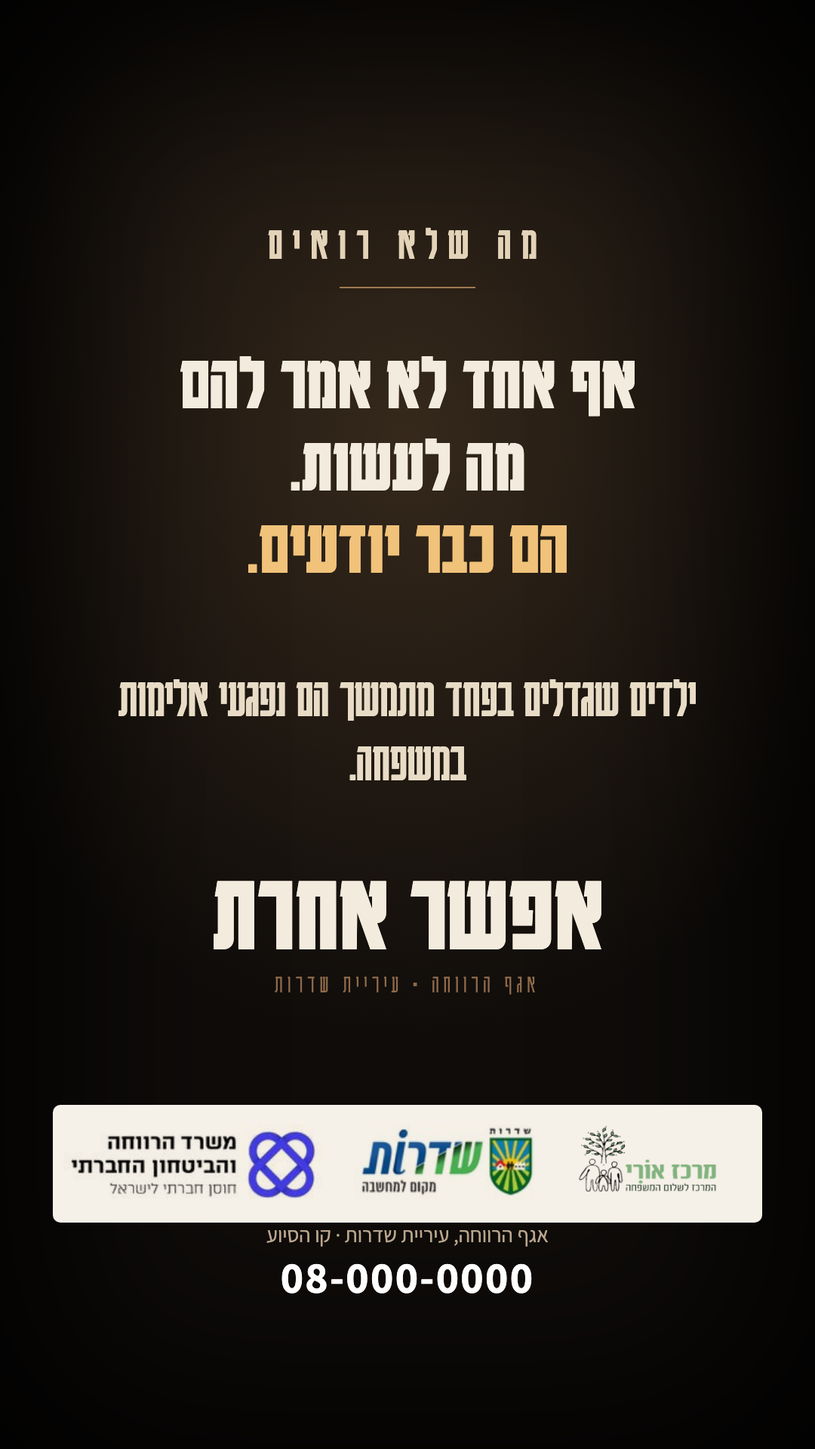
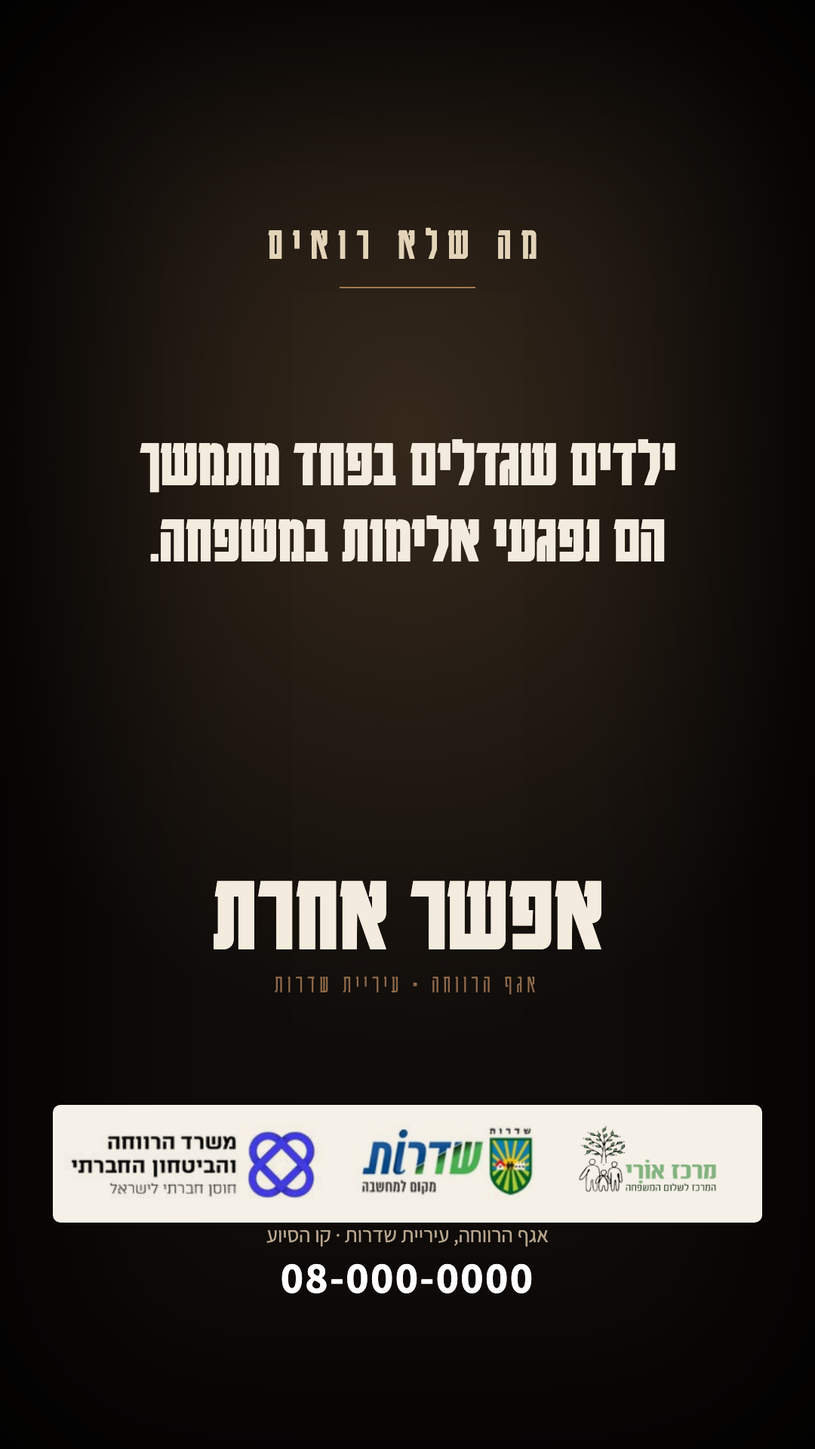
כרטיס 01 בלי משפט רגשי

Changed region(s): [[0.1833, 0.25, 0.825, 0.4062], [0.1222, 0.4688, 0.8556, 0.5625]]

diff --git a/film-01.html b/film-01.html
@@ -65,7 +65,7 @@ footer{padding-block:22px;border-top:1px solid var(--line)} footer .inner{displa
 <div class="band hero"><div class="inner"><span class="kicker">סרטון 01 · פחד מתמשך בבית</span><h1>הם כבר יודעים</h1><p class="sub">ההורים רבים במטבח. בלי מילים שאפשר להבין, בלי מכה. הילדה שומעת את הטון, לוקחת את אחיה הקטן לחדר, סוגרת את הדלת בשקט ושמה לו אוזניות. אף אחד לא אמר לה מה לעשות. היא כבר יודעת.</p><div class="meta"><span>35 שניות</span><span>דרמה שקטה</span><span>דירת משפחה ישראלית, ערב: סלון, מטבח פתוח, מסדרון קצר וחדר הילדים</span></div></div></div>
 <section class="band"><div class="inner"><div class="sec-head"><span class="eyebrow">הדמויות</span><h2>מי בסרטון</h2><p>כל דמות מוצגת בשלוש זוויות: פנים, שלושה-רבעים וגוף מלא, בלבוש של הסרטון. ככה היא תיראה בכל השוטים.</p></div><div class="cast"><div class="who"><img src="c/C1-A7.jpg" alt=""><b>האם</b><small>בת 29, דתייה-לאומית ליברלית. מטפחת-סרט ורודה מנומרת, שיער ארוך וחלק בחוץ, חולצת קרושה קרם, חצאית זית, נזם ועגילים. עור צעיר, בלי עייפות. בלי צלקת בגבה.</small></div><div class="who"><img src="c/C1-B5.jpg" alt=""><b>האב</b><small>בן 42, דתי-לאומי בסגנון קיבוצי. כיפה סרוגה לבנה-כחולה גדולה יותר, זקן מלא, טי-שירט זית עם כיס, ציצית, ג'ינס וסנדלים. בלי צלקת בגבה.</small></div><div class="who"><img src="c/C1-C8.jpg" alt=""><b>הילדה</b><small>בת 8, דומה לאם (עיניים, עור, קו גבות) ולאב (אף, צורת פנים). שיער ארוך חלק בקוקו, חולצת לילך, חצאית, גרביים לבנות.</small></div><div class="who"><img src="c/C1-D8.jpg" alt=""><b>הילד</b><small>בן 5, תלתלים כמו של האב, עיניים כמו של האם. כיפה סרוגה לבנה קטנה, טי-שירט חרדל, מכנסי טרנינג אפורים, יחף.</small></div></div></div></section>
 <section class="band tint"><div class="inner"><div class="sec-head"><span class="eyebrow">הלוקיישנים</span><h2>איפה זה קורה</h2></div><div class="locs"><div class="who"><img src="c/L1.jpg" alt=""><b>הדירה</b><small>מטבח פתוח לסלון, שולחן אוכל, ציור על המקרר, צעצוע על השטיח, ודלת הכניסה בעומק. אור ערב חם, אור קר יותר מחדר המדרגות. כולל חדר ילדים: מיטה, מנורת לילה, אוזניות גדולות וטאבלט ישן.</small></div></div></div></section>
-<section class="band"><div class="inner"><div class="sec-head"><span class="eyebrow">הקריאטיב</span><h2>התסריט שנייה-שנייה</h2><p>לכל שוט: מה רואים, מה שומעים, איך המצלמה מצלמת, מה האור והקומפוזיציה, ומה הצופה אמור להבין ברגע הזה.</p></div><div class="tl"><div class="shot"><div class="time"><span class="n">1</span><b>0–3</b><small>3 שניות</small></div><div><h3>שגרה</h3><div class="f"><div class="w"><span>רואים</span>הסלון בערב. הילדה והילד על השטיח עם פאזל. בעומק, דרך פתח המטבח, ההורים מפנים את השולחן. רגיל, חם, נעים.</div><div><span>שומעים</span>חלקי פאזל, כלים בכיור, טלוויזיה רחוקה.</div><div><span>מצלמה</span>רחב · גובה עיני ילד · 35mm · נעולה</div><div><span>אור וקומפוזיציה</span>ערב. מנורת סלון חמה, המטבח מואר צהוב יותר ברקע.</div><div><span>רגש / גילוי</span>נורמליות. הצופה עוד לא יודע כלום.</div><div><span>המשכיות</span>הפאזל חצי בנוי, קופסת הפאזל ליד הילדה.</div></div></div></div><div class="shot"><div class="time"><span class="n">2</span><b>3–6</b><small>3 שניות</small></div><div><h3>הטון משתנה</h3><div class="f"><div class="w"><span>רואים</span>המטבח ברקע, מטושטש: האב מניח סיר על השיש בחוזקה. האם מסתובבת אליו, ידיים משולבות. רואים גופים ותנועות ידיים, לא פנים ולא פיות. הריב מתחיל.</div><div><span>שומעים</span>סיר על שיש. קולות נמוכים ועמומים, בלי מילים שאפשר להבין.</div><div><span>מצלמה</span>מדיום · גובה עיני ילד · 50mm · ההורים מחוץ לפוקוס · נעולה</div><div><span>אור וקומפוזיציה</span>אותו אור. הפוקוס נשאר על השטיח בקדמת הפריים.</div><div><span>רגש / גילוי</span>משהו לא בסדר, עוד לא ברור מה.</div><div><span>המשכיות</span>הילדים עדיין על השטיח, הפאזל במקומו.</div></div></div></div><div class="shot"><div class="time"><span class="n">3</span><b>6–9</b><small>3 שניות</small></div><div><h3>הילדה שומעת</h3><div class="f"><div class="w"><span>רואים</span>פני הילדה. חלק הפאזל נעצר באוויר. העיניים עולות לכיוון המטבח. האח ממשיך לדחוף חלקים, לא שם לב.</div><div><span>שומעים</span>הקולות ברקע עולים, עדיין עמומים. חלק פאזל ביד.</div><div><span>מצלמה</span>קלוז-אפ · גובה עיניים · 85mm · נעולה</div><div><span>אור וקומפוזיציה</span>אור חם מהצד, חצי פנים בצל.</div><div><span>רגש / גילוי</span>היא מזהה את הטון. היא מכירה אותו.</div><div><span>המשכיות</span>חלק הפאזל נשאר בידה.</div></div></div></div><div class="shot"><div class="time"><span class="n">4</span><b>9–13</b><small>4 שניות</small></div><div><h3>הטקס</h3><div class="f"><div class="w"><span>רואים</span>הילדה מניחה את החלק, לוקחת את היד של אחיה. הוא מביט בה, מתנגד שנייה, מביט למטבח, ומבין. היא מרימה את קופסת הפאזל. אף מילה.</div><div><span>שומעים</span>חלקים נכנסים לקופסה. הריב ברקע, עמום.</div><div><span>מצלמה</span>מדיום טו-שוט · גובה עיני ילד · 50mm · נעולה</div><div><span>אור וקומפוזיציה</span>אותו אור סלון.</div><div><span>רגש / גילוי</span>זה לא הפעם הראשונה. יש להם סדר פעולות.</div><div><span>המשכיות</span>הקופסה בידה, היד של האח בידה השנייה.</div></div></div></div><div class="shot"><div class="time"><span class="n">5</span><b>13–17</b><small>4 שניות</small></div><div><h3>המסדרון</h3><div class="f"><div class="w"><span>רואים</span>שני הילדים הולכים במסדרון הקצר, היד שלה על הגב שלו. מאחוריהם, מטושטש, יד של האב מונפת בתנועת ויכוח והאם צועדת צעד אחורה. המצלמה הולכת איתם.</div><div><span>שומעים</span>הקולות מאחור, כיסא נגרר, צעדים קטנים על רצפה.</div><div><span>מצלמה</span>רחב נמוך · גובה עיני ילד · 35mm · מאחורי הילדים · ליווי איטי</div><div><span>אור וקומפוזיציה</span>המסדרון חשוך יותר, אור חם מחדר הילדים בקצה.</div><div><span>רגש / גילוי</span>הם מתרחקים מהמקום שבו רע.</div><div><span>המשכיות</span>הקופסה בידה. דלת חדר הילדים פתוחה בקצה.</div></div></div></div><div class="shot"><div class="time"><span class="n">6</span><b>17–21</b><small>4 שניות</small></div><div><h3>הדלת</h3><div class="f"><div class="w"><span>רואים</span>הילדה סוגרת את דלת החדר לאט, בשתי ידיים, כדי שלא תשמיע צליל. היא יודעת איך. הקולות מהמטבח יורדים כשהדלת נסגרת.</div><div><span>שומעים</span>הקולות נחתכים לעמום. נקישה רכה יותר מנקישה.</div><div><span>מצלמה</span>קלוז-אפ · גובה עיני ילד · 50mm · נעולה</div><div><span>אור וקומפוזיציה</span>מנורת לילה חמה בחדר.</div><div><span>רגש / גילוי</span>סגירת דלת בשקט היא מיומנות. ילדה בת 8 לא אמורה לדעת אותה.</div><div><span>המשכיות</span>הדלת סגורה. האח כבר יושב על המיטה.</div></div></div></div><div class="shot"><div class="time"><span class="n">7</span><b>21–25</b><small>4 שניות</small></div><div><h3>האוזניות</h3><div class="f"><div class="w"><span>רואים</span>היא מושיבה אותו על המיטה, שמה לו את האוזניות הגדולות על האוזניים ולוחצת פליי בטאבלט הישן. נותנת לו את קופסת הפאזל. מחייכת אליו חיוך מתורגל.</div><div><span>שומעים</span>מוזיקה דקה ופחית מהאוזניות. הקולות דרך הדלת.</div><div><span>מצלמה</span>מדיום · גובה עיניים · 50mm · נעולה</div><div><span>אור וקומפוזיציה</span>מנורת לילה, אור המסך של הטאבלט על פניו.</div><div><span>רגש / גילוי</span>היא מגוננת עליו כמו אמא. היא בת 8.</div><div><span>המשכיות</span>האוזניות עליו, הקופסה על ברכיו.</div></div></div></div><div class="shot"><div class="time"><span class="n">8</span><b>25–29</b><small>4 שניות</small></div><div><h3>היא שומרת</h3><div class="f"><div class="w"><span>רואים</span>הילדה יושבת על הרצפה עם הגב לדלת, ברכיים לחזה, מביטה באח. הקולות דרך הדלת עולים ויורדים. ארון נטרק במטבח. היד שלה לא זזה.</div><div><span>שומעים</span>הריב דרך הדלת, עמום. טריקת ארון.</div><div><span>מצלמה</span>מדיום רחב · גובה רצפה · 35mm · נעולה</div><div><span>אור וקומפוזיציה</span>אותו אור חדר, הדלת מאחוריה כהה.</div><div><span>רגש / גילוי</span>היא שומרת על הדלת. הצופה מבין שזה כל ערב.</div><div><span>המשכיות</span>היא ליד הדלת, הוא על המיטה עם האוזניות.</div></div></div></div><div class="shot"><div class="time"><span class="n">9</span><b>29–32</b><small>3 שניות</small></div><div><h3>הדממה</h3><div class="f"><div class="w"><span>רואים</span>דלת הכניסה נטרקת אי שם בדירה. שקט. הכתפיים של הילדה יורדות קצת. האח מרים את המבט. היא מהנהנת לו: נגמר. היא לא קמה.</div><div><span>שומעים</span>טריקת דלת רחוקה, ואז שקט והמוזיקה הדקה מהאוזניות.</div><div><span>מצלמה</span>קלוז-אפ · גובה עיניים · 85mm · נעולה</div><div><span>אור וקומפוזיציה</span>אור חדר חם.</div><div><span>רגש / גילוי</span>הקלה שהיא עצמה עצובה: ילדה שיודעת מתי &quot;נגמר&quot;.</div><div><span>המשכיות</span>שניהם במקומם. הפריים נשאר.</div></div></div></div><div class="shot"><div class="time"><span class="n">10</span><b>32–35</b><small>3 שניות</small></div><div><h3>כרטיס סיום</h3><div class="f"><div class="w"><span>רואים</span>טקסט: &quot;אף אחד לא אמר להם מה לעשות. הם כבר יודעים.&quot; שורת משנה: &quot;ילדים שגדלים בפחד מתמשך הם נפגעי אלימות במשפחה.&quot; ואז &quot;אפשר אחרת&quot; (הסלוגן הקבוע של האגף), הלוגואים (מרכז אורי, אגף הרווחה עיריית שדרות, משרד הרווחה והביטחון החברתי) ופרטי הסיוע.</div><div><span>שומעים</span>שקט, ואז אקורד מוזיקלי עדין אחד.</div><div><span>מצלמה</span>כרטיס · סטטי</div><div><span>אור וקומפוזיציה</span>רקע כהה-חם (לא שחור טהור), טקסט בהיר.</div><div><span>רגש / גילוי</span>ההבנה: הסדר הזה נלמד. ככה כל ערב.</div><div><span>המשכיות</span>באזור הבטוח של אינסטגרם.</div></div></div></div></div></div></section>
-<section class="band tint"><div class="inner"><div class="sec-head"><span class="eyebrow">המסרים</span><h2>מה כתוב על המסך</h2><p>כל הטקסטים נבנים בעריכה, בעברית, באזור הבטוח של אינסטגרם. הנוסחים כאן לאישורכם.</p></div><div class="texts"><div class="quote">טקסט: &quot;אף אחד לא אמר להם מה לעשות. הם כבר יודעים.&quot; שורת משנה: &quot;ילדים שגדלים בפחד מתמשך הם נפגעי אלימות במשפחה.&quot; ואז &quot;אפשר אחרת&quot; (הסלוגן הקבוע של האגף), הלוגואים (מרכז אורי, אגף הרווחה עיריית שדרות, משרד הרווחה והביטחון החברתי) ופרטי הסיוע.<small>כרטיס הסיום, 32–35 שניות</small></div><div><img class="mock" src="c/G1-endcard.png" alt=""><p style="text-align:center;color:var(--muted);font-size:14px;margin-top:8px">כרטיס סיום (דוגמה, סרטון 01)</p></div></div></div></section>
+<section class="band"><div class="inner"><div class="sec-head"><span class="eyebrow">הקריאטיב</span><h2>התסריט שנייה-שנייה</h2><p>לכל שוט: מה רואים, מה שומעים, איך המצלמה מצלמת, מה האור והקומפוזיציה, ומה הצופה אמור להבין ברגע הזה.</p></div><div class="tl"><div class="shot"><div class="time"><span class="n">1</span><b>0–3</b><small>3 שניות</small></div><div><h3>שגרה</h3><div class="f"><div class="w"><span>רואים</span>הסלון בערב. הילדה והילד על השטיח עם פאזל. בעומק, דרך פתח המטבח, ההורים מפנים את השולחן. רגיל, חם, נעים.</div><div><span>שומעים</span>חלקי פאזל, כלים בכיור, טלוויזיה רחוקה.</div><div><span>מצלמה</span>רחב · גובה עיני ילד · 35mm · נעולה</div><div><span>אור וקומפוזיציה</span>ערב. מנורת סלון חמה, המטבח מואר צהוב יותר ברקע.</div><div><span>רגש / גילוי</span>נורמליות. הצופה עוד לא יודע כלום.</div><div><span>המשכיות</span>הפאזל חצי בנוי, קופסת הפאזל ליד הילדה.</div></div></div></div><div class="shot"><div class="time"><span class="n">2</span><b>3–6</b><small>3 שניות</small></div><div><h3>הטון משתנה</h3><div class="f"><div class="w"><span>רואים</span>המטבח ברקע, מטושטש: האב מניח סיר על השיש בחוזקה. האם מסתובבת אליו, ידיים משולבות. רואים גופים ותנועות ידיים, לא פנים ולא פיות. הריב מתחיל.</div><div><span>שומעים</span>סיר על שיש. קולות נמוכים ועמומים, בלי מילים שאפשר להבין.</div><div><span>מצלמה</span>מדיום · גובה עיני ילד · 50mm · ההורים מחוץ לפוקוס · נעולה</div><div><span>אור וקומפוזיציה</span>אותו אור. הפוקוס נשאר על השטיח בקדמת הפריים.</div><div><span>רגש / גילוי</span>משהו לא בסדר, עוד לא ברור מה.</div><div><span>המשכיות</span>הילדים עדיין על השטיח, הפאזל במקומו.</div></div></div></div><div class="shot"><div class="time"><span class="n">3</span><b>6–9</b><small>3 שניות</small></div><div><h3>הילדה שומעת</h3><div class="f"><div class="w"><span>רואים</span>פני הילדה. חלק הפאזל נעצר באוויר. העיניים עולות לכיוון המטבח. האח ממשיך לדחוף חלקים, לא שם לב.</div><div><span>שומעים</span>הקולות ברקע עולים, עדיין עמומים. חלק פאזל ביד.</div><div><span>מצלמה</span>קלוז-אפ · גובה עיניים · 85mm · נעולה</div><div><span>אור וקומפוזיציה</span>אור חם מהצד, חצי פנים בצל.</div><div><span>רגש / גילוי</span>היא מזהה את הטון. היא מכירה אותו.</div><div><span>המשכיות</span>חלק הפאזל נשאר בידה.</div></div></div></div><div class="shot"><div class="time"><span class="n">4</span><b>9–13</b><small>4 שניות</small></div><div><h3>הטקס</h3><div class="f"><div class="w"><span>רואים</span>הילדה מניחה את החלק, לוקחת את היד של אחיה. הוא מביט בה, מתנגד שנייה, מביט למטבח, ומבין. היא מרימה את קופסת הפאזל. אף מילה.</div><div><span>שומעים</span>חלקים נכנסים לקופסה. הריב ברקע, עמום.</div><div><span>מצלמה</span>מדיום טו-שוט · גובה עיני ילד · 50mm · נעולה</div><div><span>אור וקומפוזיציה</span>אותו אור סלון.</div><div><span>רגש / גילוי</span>זה לא הפעם הראשונה. יש להם סדר פעולות.</div><div><span>המשכיות</span>הקופסה בידה, היד של האח בידה השנייה.</div></div></div></div><div class="shot"><div class="time"><span class="n">5</span><b>13–17</b><small>4 שניות</small></div><div><h3>המסדרון</h3><div class="f"><div class="w"><span>רואים</span>שני הילדים הולכים במסדרון הקצר, היד שלה על הגב שלו. מאחוריהם, מטושטש, יד של האב מונפת בתנועת ויכוח והאם צועדת צעד אחורה. המצלמה הולכת איתם.</div><div><span>שומעים</span>הקולות מאחור, כיסא נגרר, צעדים קטנים על רצפה.</div><div><span>מצלמה</span>רחב נמוך · גובה עיני ילד · 35mm · מאחורי הילדים · ליווי איטי</div><div><span>אור וקומפוזיציה</span>המסדרון חשוך יותר, אור חם מחדר הילדים בקצה.</div><div><span>רגש / גילוי</span>הם מתרחקים מהמקום שבו רע.</div><div><span>המשכיות</span>הקופסה בידה. דלת חדר הילדים פתוחה בקצה.</div></div></div></div><div class="shot"><div class="time"><span class="n">6</span><b>17–21</b><small>4 שניות</small></div><div><h3>הדלת</h3><div class="f"><div class="w"><span>רואים</span>הילדה סוגרת את דלת החדר לאט, בשתי ידיים, כדי שלא תשמיע צליל. היא יודעת איך. הקולות מהמטבח יורדים כשהדלת נסגרת.</div><div><span>שומעים</span>הקולות נחתכים לעמום. נקישה רכה יותר מנקישה.</div><div><span>מצלמה</span>קלוז-אפ · גובה עיני ילד · 50mm · נעולה</div><div><span>אור וקומפוזיציה</span>מנורת לילה חמה בחדר.</div><div><span>רגש / גילוי</span>סגירת דלת בשקט היא מיומנות. ילדה בת 8 לא אמורה לדעת אותה.</div><div><span>המשכיות</span>הדלת סגורה. האח כבר יושב על המיטה.</div></div></div></div><div class="shot"><div class="time"><span class="n">7</span><b>21–25</b><small>4 שניות</small></div><div><h3>האוזניות</h3><div class="f"><div class="w"><span>רואים</span>היא מושיבה אותו על המיטה, שמה לו את האוזניות הגדולות על האוזניים ולוחצת פליי בטאבלט הישן. נותנת לו את קופסת הפאזל. מחייכת אליו חיוך מתורגל.</div><div><span>שומעים</span>מוזיקה דקה ופחית מהאוזניות. הקולות דרך הדלת.</div><div><span>מצלמה</span>מדיום · גובה עיניים · 50mm · נעולה</div><div><span>אור וקומפוזיציה</span>מנורת לילה, אור המסך של הטאבלט על פניו.</div><div><span>רגש / גילוי</span>היא מגוננת עליו כמו אמא. היא בת 8.</div><div><span>המשכיות</span>האוזניות עליו, הקופסה על ברכיו.</div></div></div></div><div class="shot"><div class="time"><span class="n">8</span><b>25–29</b><small>4 שניות</small></div><div><h3>היא שומרת</h3><div class="f"><div class="w"><span>רואים</span>הילדה יושבת על הרצפה עם הגב לדלת, ברכיים לחזה, מביטה באח. הקולות דרך הדלת עולים ויורדים. ארון נטרק במטבח. היד שלה לא זזה.</div><div><span>שומעים</span>הריב דרך הדלת, עמום. טריקת ארון.</div><div><span>מצלמה</span>מדיום רחב · גובה רצפה · 35mm · נעולה</div><div><span>אור וקומפוזיציה</span>אותו אור חדר, הדלת מאחוריה כהה.</div><div><span>רגש / גילוי</span>היא שומרת על הדלת. הצופה מבין שזה כל ערב.</div><div><span>המשכיות</span>היא ליד הדלת, הוא על המיטה עם האוזניות.</div></div></div></div><div class="shot"><div class="time"><span class="n">9</span><b>29–32</b><small>3 שניות</small></div><div><h3>הדממה</h3><div class="f"><div class="w"><span>רואים</span>דלת הכניסה נטרקת אי שם בדירה. שקט. הכתפיים של הילדה יורדות קצת. האח מרים את המבט. היא מהנהנת לו: נגמר. היא לא קמה.</div><div><span>שומעים</span>טריקת דלת רחוקה, ואז שקט והמוזיקה הדקה מהאוזניות.</div><div><span>מצלמה</span>קלוז-אפ · גובה עיניים · 85mm · נעולה</div><div><span>אור וקומפוזיציה</span>אור חדר חם.</div><div><span>רגש / גילוי</span>הקלה שהיא עצמה עצובה: ילדה שיודעת מתי &quot;נגמר&quot;.</div><div><span>המשכיות</span>שניהם במקומם. הפריים נשאר.</div></div></div></div><div class="shot"><div class="time"><span class="n">10</span><b>32–35</b><small>3 שניות</small></div><div><h3>כרטיס סיום (אחד)</h3><div class="f"><div class="w"><span>רואים</span>כרטיס אחד, בלי משפט רגשי: &quot;ילדים שגדלים בפחד מתמשך הם נפגעי אלימות במשפחה.&quot; ואז &quot;אפשר אחרת&quot;, הלוגואים (מרכז אורי, אגף הרווחה עיריית שדרות, משרד הרווחה והביטחון החברתי) ופרטי הסיוע.</div><div><span>שומעים</span>שקט, ואז אקורד מוזיקלי עדין אחד.</div><div><span>מצלמה</span>כרטיס · סטטי</div><div><span>אור וקומפוזיציה</span>רקע כהה-חם (לא שחור טהור), טקסט בהיר.</div><div><span>רגש / גילוי</span>השם של מה שראינו, בלי לסכם את זה במשפט.</div><div><span>המשכיות</span>באזור הבטוח של אינסטגרם.</div></div></div></div></div></div></section>
+<section class="band tint"><div class="inner"><div class="sec-head"><span class="eyebrow">המסרים</span><h2>מה כתוב על המסך</h2><p>כל הטקסטים נבנים בעריכה, בעברית, באזור הבטוח של אינסטגרם. הנוסחים כאן לאישורכם.</p></div><div class="texts"><div class="quote">כרטיס אחד, בלי משפט רגשי: &quot;ילדים שגדלים בפחד מתמשך הם נפגעי אלימות במשפחה.&quot; ואז &quot;אפשר אחרת&quot;, הלוגואים (מרכז אורי, אגף הרווחה עיריית שדרות, משרד הרווחה והביטחון החברתי) ופרטי הסיוע.<small>כרטיס הסיום, 32–35 שניות</small></div><div><img class="mock" src="c/G1-endcard.png" alt=""><p style="text-align:center;color:var(--muted);font-size:14px;margin-top:8px">כרטיס סיום (דוגמה, סרטון 01)</p></div></div></div></section>
 <section class="band"><div class="inner pager"><a href="index.html">‹ לדף הראשי</a><a class="fill" href="film-02.html">סרטון 02 ›</a></div></section>
 <div class="band prodband"><div class="inner"><img src="c/efect.png" alt="Efect"><div><b>ההפקה: Efect, הבית הישראלי לעולמות וירטואליים</b><p>חמשת הסרטונים מופקים דרך Efect, בהובלת אוראל לוי: תסריט, בימוי, יצירת הדמויות והסצנות, עריכה, סאונד וטקסטים, עד חמישה סרטונים מוכנים לפרסום.</p></div></div></div><footer class="band"><div class="inner"><span><b>אגף הרווחה · עיריית שדרות</b> · קמפיין ליום המאבק באלימות במשפחה</span><span>הפקה: Efect · אוראל לוי</span></div></footer></body></html>
